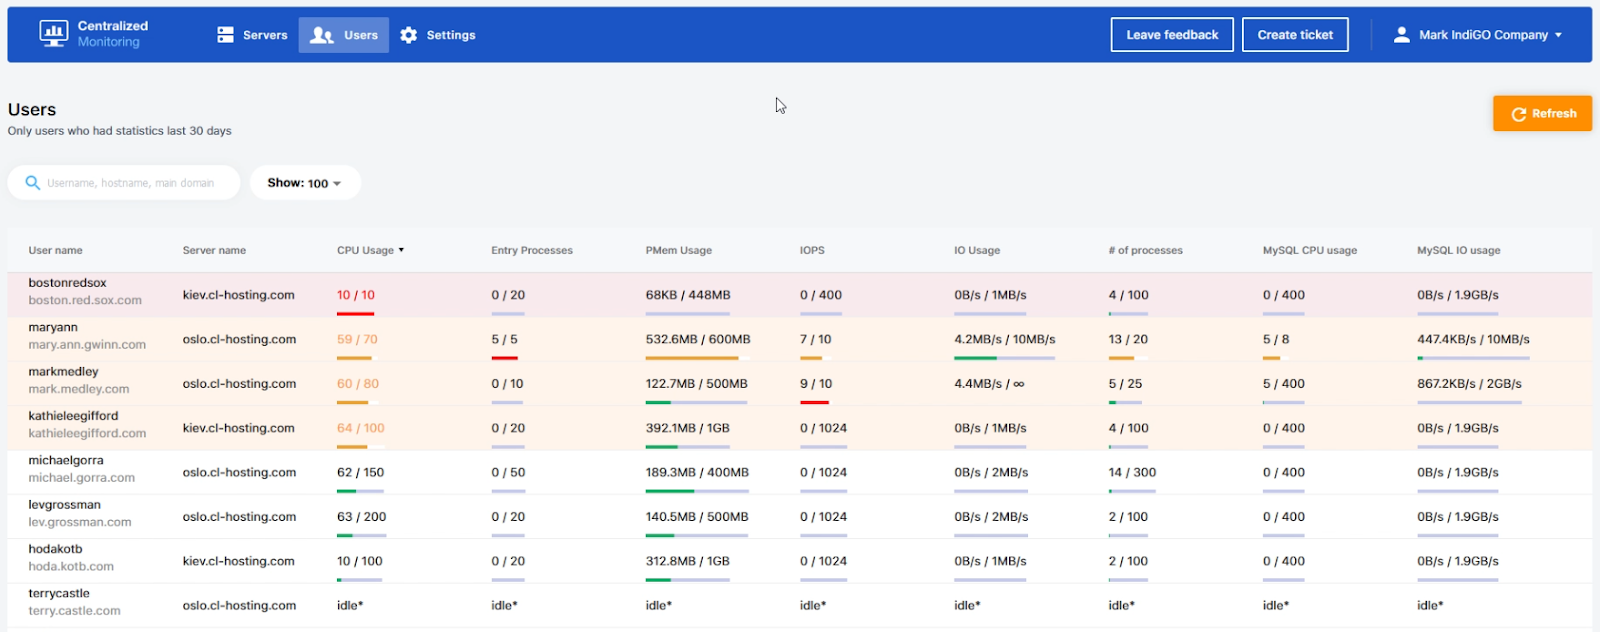
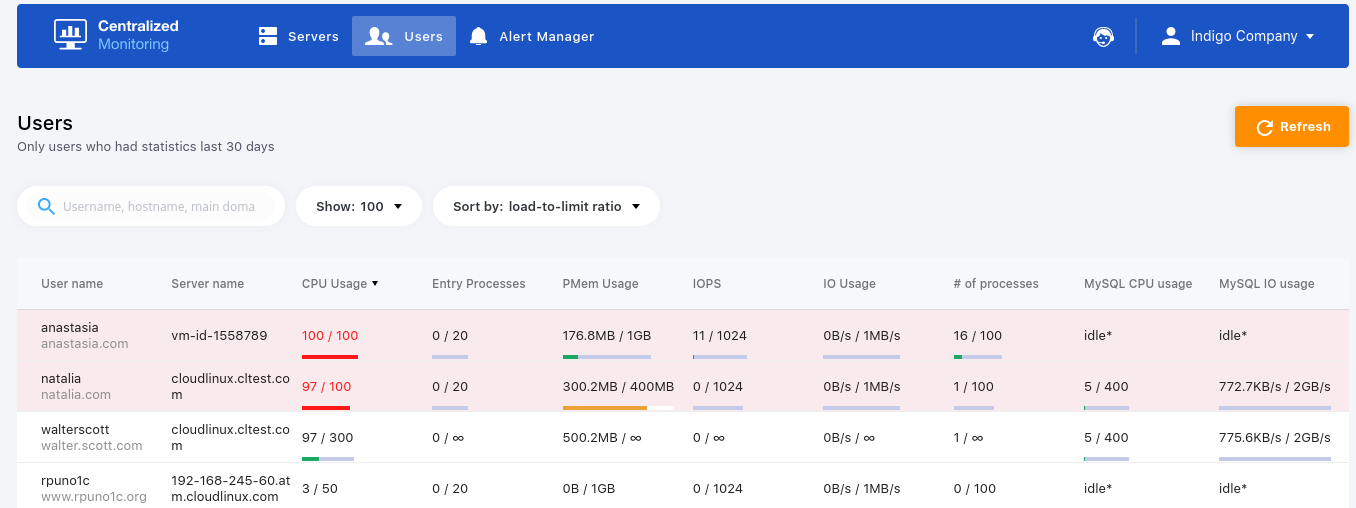
PT-1925: CM docs changes. Part 2

diff --git a/docs/cloudlinux-os-plus/README.md b/docs/cloudlinux-os-plus/README.md
@@ -866,7 +866,19 @@ This page contains all users for the all server of the client and their LVE stat
 
 The description of this page is the same as [*The most loaded server users for the last minute*](/cloudlinux-os-plus/#the-most-loaded-server-users-for-the-last-minute) of the top 5 loaded users.
 
+
 ![](/images/CMUsers.png)
+
+User’s metrics data can be sorted by the load-to-limit ratio and by the absolute value.
+
+The absolute value is used to analyse the load produced by unlimited users.
+
+The value of the load-to-limit ratio is convenient to use in the analysis of how many resources the users consume and whether they need to change the limits.
+
+The values like this ![](/images/CMvalue.png) means that the resource is unlimited and 500.2 MB is the current usage of it.
+
+Metrics data of _Idle users_ is not used in the sorting, so such users always will be at the end of the list.  The sorting can be done for only one metric.
+
 
 ### Alert Manager
 
